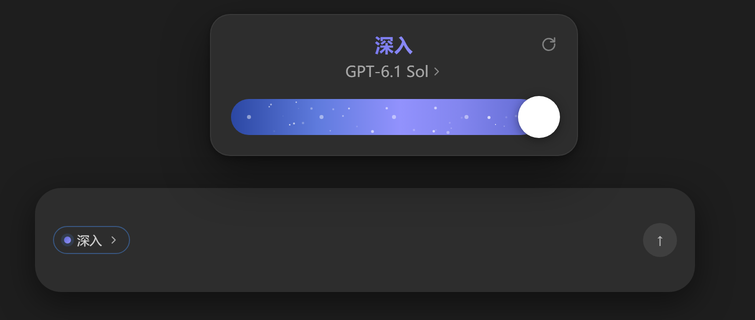
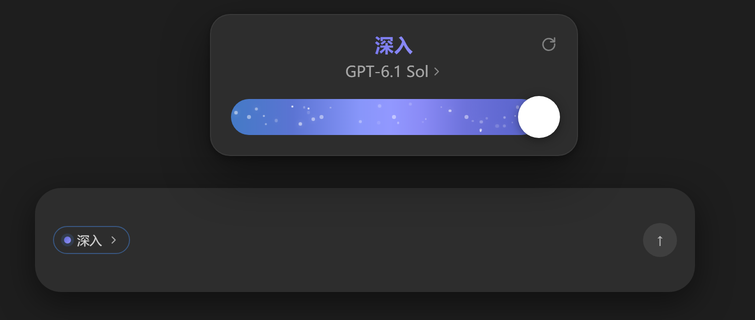
feat(ultra): 紫色从右向左扫过整条轨道 + 粒子蔓延并会飘
参照 Codex 原版最高档的动效重做：

- 扫描改为滑动渐变：一条 2 倍宽的渐变（左半基础蓝、右半紫色本体），
  用 background-position 把取景窗从右往左推。background-position 的插值
  在任何 Chromium 上都平滑，且两半在 #447ac6 处接续，前沿没有硬边。
  （先前用 mask-image / clip-path 的版本要么前沿生硬，要么插值不可靠。）
- 粒子层用同一套时长与缓动做 clip-path 揭示，做到「紫到哪儿、粒子到哪儿」。
- 粒子会动：闪烁 + translate3d 缓慢漂移（单颗 4.5-8s、位移 3-9px）。
- 切档瞬间从拖柄位置溅出 14 颗粒子，飞出轨道一点再消失。
- 渐变端色按新增截图重新采样：0% #465fbd → 50% #9298ff → 100% #616dd3。

离线 harness 逐帧验证：把扫描固定在前沿 20/50/85% 截图，紫边界依次左移；
再对比开/关漂移两张图，同颗粒子位移最大 8.9px（2x 缩放）确认确实在动。

Changed region(s): [[0.3046, 0.3125, 0.3656, 0.4375]]

diff --git a/lib/client.js b/lib/client.js
@@ -133,12 +133,60 @@ body:not([data-ds-dark-theme]) .dshcps-tip{
   background:linear-gradient(90deg,var(--dshcps-accent-dim),var(--dshcps-accent));
   transition:width .24s cubic-bezier(.2,0,0,1),background .24s ease;
 }
-.dshcps-fill.is-ultra{background:linear-gradient(90deg,#2b47a3 0%,#5f7bdd 28%,#9292fd 55%,#8386ef 74%,#616ad1 100%)}
+/* 最高档：一条 2 倍宽的渐变，左半是基础蓝、右半是紫色本体，靠 background-position
+   把「取景窗」从右往左推 —— 紫色就从右边缘滑进来，一路铺满整条轨道。
+   只用 background-position 做动画（插值一定平滑），而且过渡带天然是软的；
+   前沿的颜色接着基础蓝（#447ac6 → #5b74d3），所以看不到硬边。 */
+.dshcps-ultra{
+  position:absolute; inset:0; border-radius:inherit; overflow:hidden;
+  background-image:linear-gradient(90deg,
+    var(--dshcps-accent-dim) 0%, #3a6cb2 25%, var(--dshcps-accent) 50%,
+    #5b74d3 60%, #8896fa 71%, #9298ff 76%, #8a8bf6 81%,
+    #6d72db 88%, #5f68d0 95%, #616dd3 100%);
+  background-size:200% 100%;
+  background-repeat:no-repeat;
+  background-position:0% 0%;
+  animation:dshcps-ultra-sweep .95s cubic-bezier(.2,.72,.24,1) both;
+}
+@keyframes dshcps-ultra-sweep{
+  0%{background-position:0% 0%}
+  100%{background-position:100% 0%}
+}
+.dshcps-stars{
+  position:absolute; inset:0; pointer-events:none;
+  animation:dshcps-ultra-stars-in .95s cubic-bezier(.2,.72,.24,1) both;
+}
+@keyframes dshcps-ultra-stars-in{
+  0%{clip-path:inset(0 0 0 96% round 999px);opacity:.25}
+  100%{clip-path:inset(0 0 0 0% round 999px);opacity:1}
+}
 .dshcps-stars{position:absolute;inset:0;pointer-events:none}
-.dshcps-star{position:absolute;border-radius:50%;background:#fff;animation:dshcps-twinkle 2.8s ease-in-out infinite}
+.dshcps-star{
+  position:absolute; border-radius:50%; background:#fff;
+  animation:dshcps-twinkle var(--tw,3s) ease-in-out infinite,
+            dshcps-drift var(--dr,6s) ease-in-out infinite alternate;
+}
+.dshcps-star.is-glow{box-shadow:0 0 6px rgba(255,255,255,.55)}
 @keyframes dshcps-twinkle{
-  0%,100%{opacity:var(--dshcps-o,.8);transform:scale(1)}
-  50%{opacity:calc(var(--dshcps-o,.8) * .3);transform:scale(.7)}
+  0%,100%{opacity:var(--dshcps-o,.8)}
+  50%{opacity:calc(var(--dshcps-o,.8) * .3)}
+}
+/* 粒子会飘：缓慢来回漂移，配合闪烁像浮在紫色里 */
+@keyframes dshcps-drift{
+  from{transform:translate3d(0,0,0)}
+  to{transform:translate3d(var(--dx,5px),var(--dy,-3px),0)}
+}
+/* 档位切换到最高档时，从拖柄位置向外溅一小簇粒子（蔓延出去那一下） */
+.dshcps-burst{position:absolute;top:50%;width:0;height:0;pointer-events:none}
+.dshcps-spark{
+  position:absolute;left:0;top:0;border-radius:50%;background:#fff;
+  animation:dshcps-spark 1.15s cubic-bezier(.18,.7,.3,1) both;
+  animation-delay:var(--d,0s);
+}
+@keyframes dshcps-spark{
+  0%{opacity:0;transform:translate3d(0,0,0) scale(.35)}
+  16%{opacity:var(--o,.9)}
+  100%{opacity:0;transform:translate3d(var(--sx),var(--sy),0) scale(1)}
 }
 .dshcps-dot{
   position:absolute; top:50%; width:4px; height:4px; margin:-2px 0 0 -2px; border-radius:50%;
@@ -312,20 +360,27 @@ body:not([data-ds-dark-theme]) .dshcps-tip{
       )
     }
 
-    /** 最高档的星点层：位置由档位 id 决定，稳定且不需要 canvas。 */
-    function StarField({ seedKey, count = 30 }) {
+    /** 粒子层：位置/大小/漂移方向都由档位 id 决定，稳定且不需要 canvas。 */
+    function StarField({ seedKey, count = 34 }) {
       const stars = React.useMemo(() => {
         const random = makeRandom(hashSeed(seedKey))
         const out = []
         for (let i = 0; i < count; i++) {
-          const size = 1 + random() * 2.2
+          const size = 1.4 + random() * 2.6
+          // 中间偏右更密一点，和原版一样是「从右侧蔓过来」的感觉
+          const bias = random()
           out.push({
-            left: 2 + random() * 96,
-            top: 8 + random() * 84,
+            left: 1 + (bias < 0.55 ? Math.pow(random(), 0.75) : random()) * 97,
+            top: 10 + random() * 80,
             size,
-            opacity: 0.28 + random() * 0.68,
-            delay: -random() * 2.8,
-            duration: 2.1 + random() * 1.7,
+            glow: size > 2.6,
+            opacity: 0.26 + random() * 0.7,
+            twinkle: 2 + random() * 2.2,
+            twinkleDelay: -random() * 3,
+            drift: 4.5 + random() * 3.5,
+            driftDelay: -random() * 4,
+            dx: (random() - 0.35) * 9,
+            dy: (random() - 0.5) * 7,
           })
         }
         return out
@@ -336,15 +391,63 @@ body:not([data-ds-dark-theme]) .dshcps-tip{
         stars.map((star, i) =>
           h('span', {
             key: i,
-            className: 'dshcps-star',
+            className: 'dshcps-star' + (star.glow ? ' is-glow' : ''),
             style: {
               left: star.left + '%',
               top: star.top + '%',
               width: star.size + 'px',
               height: star.size + 'px',
               '--dshcps-o': star.opacity,
-              animationDelay: star.delay + 's',
-              animationDuration: star.duration + 's',
+              '--tw': star.twinkle + 's',
+              '--dr': star.drift + 's',
+              '--dx': star.dx.toFixed(2) + 'px',
+              '--dy': star.dy.toFixed(2) + 'px',
+              animationDelay: star.twinkleDelay + 's, ' + star.driftDelay + 's',
+            },
+          }),
+        ),
+      )
+    }
+
+    /** 最高档：紫色层 + 跟着一起从右向左蔓延的粒子。 */
+    function UltraLayer({ seedKey }) {
+      return h('div', { className: 'dshcps-ultra', 'aria-hidden': 'true' }, h(StarField, { seedKey }))
+    }
+
+    /** 切到最高档那一下，从拖柄位置向外溅出的粒子（会飞出轨道一点）。 */
+    function Burst({ seedKey, count = 14 }) {
+      const sparks = React.useMemo(() => {
+        const random = makeRandom(hashSeed(seedKey + ':burst'))
+        const out = []
+        for (let i = 0; i < count; i++) {
+          // 角度偏上半圈 + 右侧，和原版一样主要往右上散
+          const angle = (-Math.PI * 0.92) * random() + Math.PI * 0.06
+          const distance = 16 + random() * 26
+          const size = 1.6 + random() * 2.4
+          out.push({
+            sx: Math.cos(angle) * distance,
+            sy: Math.sin(angle) * distance,
+            size,
+            opacity: 0.35 + random() * 0.6,
+            delay: random() * 0.18,
+          })
+        }
+        return out
+      }, [seedKey, count])
+      return h(
+        'div',
+        { className: 'dshcps-burst', 'aria-hidden': 'true' },
+        sparks.map((spark, i) =>
+          h('span', {
+            key: i,
+            className: 'dshcps-spark',
+            style: {
+              width: spark.size + 'px',
+              height: spark.size + 'px',
+              '--sx': spark.sx.toFixed(1) + 'px',
+              '--sy': spark.sy.toFixed(1) + 'px',
+              '--o': spark.opacity,
+              '--d': spark.delay.toFixed(2) + 's',
             },
           }),
         ),
@@ -750,8 +853,8 @@ body:not([data-ds-dark-theme]) .dshcps-tip{
               },
               h(
                 'div',
-                { className: 'dshcps-fill' + (isUltra ? ' is-ultra' : ''), style: { width: total > 0 ? knobLeft : '0px' } },
-                isUltra ? h(StarField, { seedKey: effort ? effort.id : 'ultra' }) : null,
+                { className: 'dshcps-fill', style: { width: total > 0 ? knobLeft : '0px' } },
+                isUltra ? h(UltraLayer, { seedKey: effort ? effort.id : 'ultra' }) : null,
               ),
               h(
                 'div',
@@ -765,6 +868,13 @@ body:not([data-ds-dark-theme]) .dshcps-tip{
                 ),
               ),
               total > 0 ? h('div', { className: 'dshcps-knob', style: { left: knobLeft } }) : null,
+              isUltra
+                ? h(
+                    'div',
+                    { className: 'dshcps-burst', style: { left: knobLeft } },
+                    h(Burst, { seedKey: effort ? effort.id : 'ultra' }),
+                  )
+                : null,
             ),
             total === 0
               ? h(

diff --git a/README.md b/README.md
@@ -9,12 +9,13 @@
 
 ## 效果
 
-| 最低档（轻度） | 最高档（Ultra 皮肤） | 模型列表 |
-|---|---|---|
-| ![轻度](docs/preview-light.png) | ![Ultra](docs/preview-ultra.png) | ![模型列表](docs/preview-models.png) |
+| 最低档（轻度） | 最高档：紫色正从右向左扫过来 | 最高档：铺满整条轨道 | 模型列表 |
+|---|---|---|---|
+| ![轻度](docs/preview-light.png) | ![扫描中](docs/preview-sweep.png) | ![Ultra](docs/preview-ultra.png) | ![模型列表](docs/preview-models.png) |
 
-> 上面三张是用离线 harness 把 `lib/client.js` 挂到假 DSH 宿主上真实渲染、再由 Edge 无头截的图
-> （渲染脚本见工作区 `tools/render-preview.mjs`，不在本包内）。
+> 上面四张是用离线 harness 把 `lib/client.js` 挂到假 DSH 宿主上真实渲染、再由 Edge 无头截的图
+> （渲染脚本见工作区 `tools/render-preview.mjs`，不在本包内）。第二张是把扫描动画固定在 50%
+> 的冻结帧：左边还是基础蓝、右边已经被紫色盖住，粒子跟着一起蔓过来。
 
 ```
 ┌──────────────────────────────────────┐
@@ -25,6 +26,20 @@
 └──────────────────────────────────────┘
               [ 轻度 ▾ ]                     ← composer 工具条里的触发器
 ```
+
+## 最高档（Ultra）的动效
+
+切到最高档不是「换个颜色」，而是一段 0.95s 的动效：
+
+- **紫色从右边缘向左扫过**：一条 2 倍宽的渐变（左半基础蓝、右半紫色本体），靠
+  `background-position` 把取景窗从右往左推。用 `background-position` 而不是
+  `mask-image`，是因为它的插值在任何 Chromium 上都一定平滑；两半渐变在 `#447ac6`
+  处接续，所以扫描前沿是一道柔和过渡，看不到硬边。
+- **粒子跟着蔓延**：34 颗粒子长在紫色层里，用同一套时长与缓动做 `clip-path` 揭示，
+  「紫到哪儿、粒子到哪儿」，不是一开始就铺满。
+- **粒子会动**：每颗粒子同时跑两个动画 —— 透明度闪烁 + 缓慢漂移（`translate3d`
+  来回漂，单颗 4.5–8s、位移 3–9px），整条轨道是活的。
+- **向外溅一下**：切换瞬间从拖柄位置溅出 14 颗小粒子，飞出轨道一点再消失。
 
 ## 特性
 
